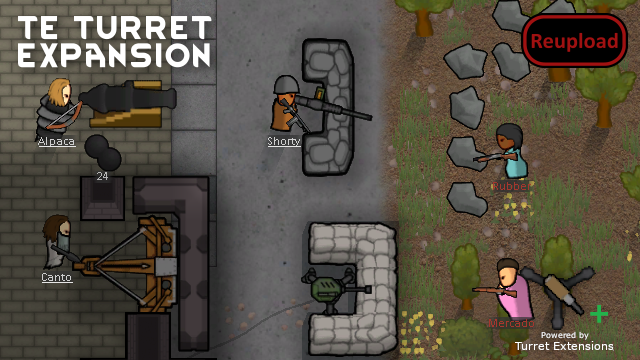
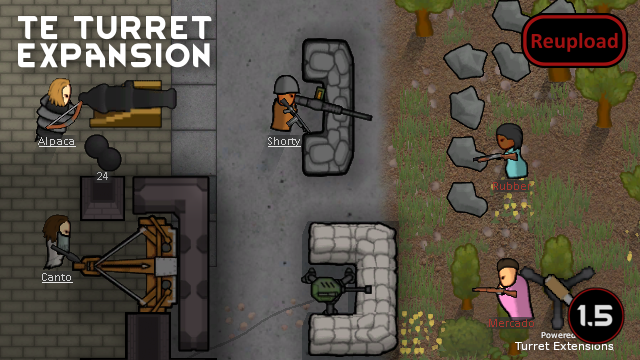
Updated for 1.5

Changed region(s): [[0.875, 0.7944, 1.0, 0.9778]]

diff --git a/README.md b/README.md
@@ -159,9 +159,13 @@ Should be safely addable to ongoing savegames. There will be one-off errors when
 
 -  See if the the error persists if you just have this mod and its requirements active.
 -  If not, try adding your other mods until it happens again.
--  Post your error-log using https://steamcommunity.com/workshop/filedetails/?id=818773962]HugsLib and command Ctrl+F12
+-  Post your error-log using https://steamcommunity.com/workshop/filedetails/?id=818773962]HugsLib or the standalone https://steamcommunity.com/sharedfiles/filedetails/?id=2873415404]Uploader and command Ctrl+F12
 -  For best support, please use the Discord-channel for error-reporting.
 -  Do not report errors by making a discussion-thread, I get no notification of that.
 -  If you have the solution for a problem, please post it to the GitHub repository.
+-  Use https://github.com/RimSort/RimSort/releases/latest]RimSort to sort your mods
 
+
+
+https://steamcommunity.com/sharedfiles/filedetails/changelog/2810488349]![Image](https://img.shields.io/github/v/release/emipa606/XNDTETurretExpansion?label=latest%20version&style=plastic&color=9f1111&labelColor=black)
 
